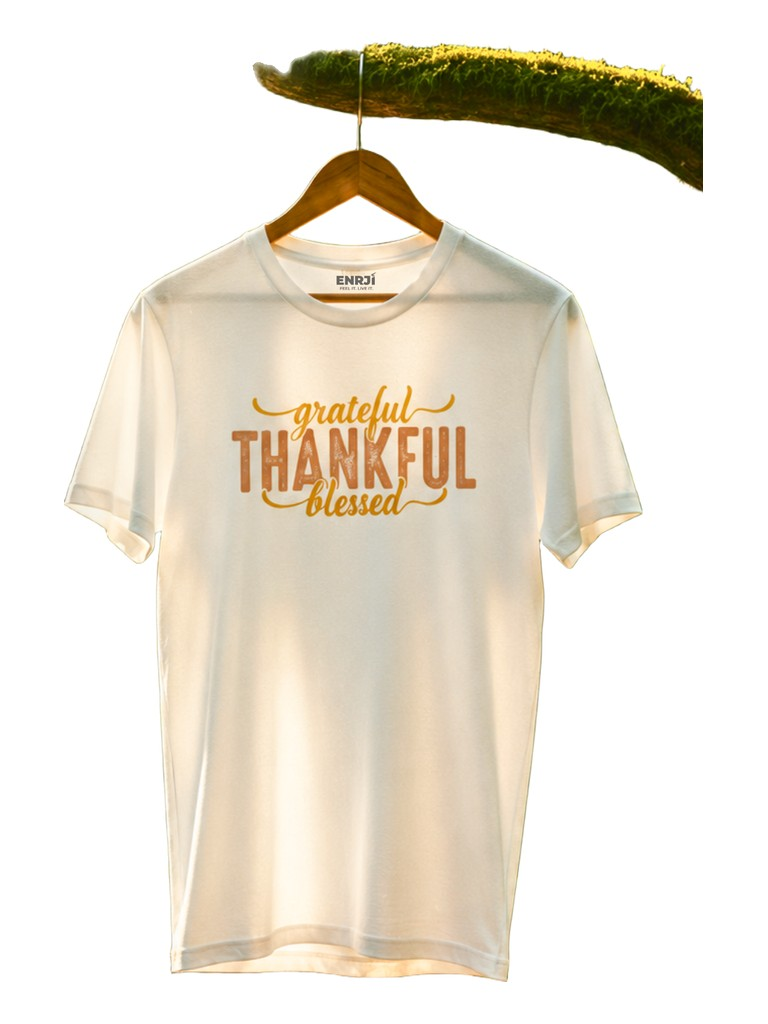
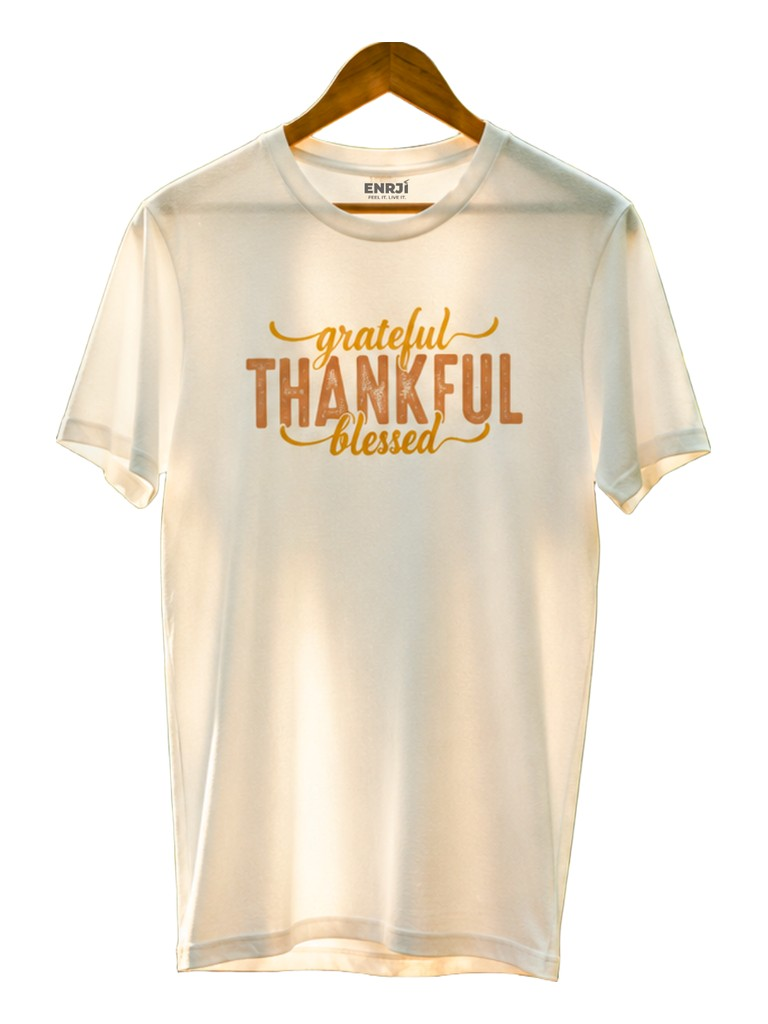
Faster pages on phones, Shop always one tap away, consistent product photos
Speed (measured on an emulated phone over slow 4G):
- Fonts are self-hosted with next/font instead of a render-blocking Google
  stylesheet; canvas text loads the heavy face before drawing with it.
- Home hero loads only its first pair of photos with the page; phones skip the
  hidden second frame. Home first paint 10.1s -> 1.4s, main image 16.5s -> 3.8s.
- Shop/collection grids render on the server with default filters, so the page
  no longer jumps when the browser applies URL filters (layout shift 0.39 -> 0).
- Lookbook serves smaller photos to phones.

Shop first:
- Shop is the one menu item that always stands out; the home hero leads with
  "Shop the collection"; Lookbook photos say "Shop" on phones.
- On phones the filters are one sideways-scrolling row instead of three rows
  pinned over the products.

Consistent photos:
- Product cards lead with the garment on its hanger, cut out on ivory, with the
  worn photo on hover (35 of 45 products).
- garment-cutouts.py removes the card's text panel, rebuilds the sleeve it hid
  by mirroring, trims branches above the hanger, and skips cards where the panel
  hides the print. Believe and Surrender keep their model photo on cards (a
  feather prop on the cuffs can't be removed cleanly).

Claude-Session: https://claude.ai/code/session_01Nt7si3X4rhPgPMTskvbx8t

Changed region(s): [[0.0625, 0.0312, 0.9375, 0.9688], [0.625, 0.6875, 0.6562, 0.75], [0.25, 0.5312, 0.2812, 0.5938]]

diff --git a/app/globals.css b/app/globals.css
@@ -21,9 +21,9 @@
   --ok: #3d7547;
   --radius: 2px;
   --radius-sm: 2px;
-  --font-display: 'Cormorant Garamond', 'Cormorant', Georgia, serif;
-  --font-body: 'Jost', system-ui, -apple-system, 'Segoe UI', sans-serif;
-  --font-serif: 'Cormorant Garamond', Georgia, serif;
+  --font-display: var(--f-display), 'Cormorant Garamond', Georgia, serif;
+  --font-body: var(--f-body), 'Jost', system-ui, -apple-system, 'Segoe UI', sans-serif;
+  --font-serif: var(--f-display), 'Cormorant Garamond', Georgia, serif;
   --ease: cubic-bezier(0.2, 0.7, 0.1, 1);
   --hop: cubic-bezier(0.87, 0, 0.13, 1);
   --gutter: clamp(18px, 4vw, 64px);
@@ -119,6 +119,10 @@ button { font: inherit; color: inherit; letter-spacing: inherit; }
 .nav a { position: relative; white-space: nowrap; font-size: 11px; font-weight: 500; letter-spacing: .2em; text-transform: uppercase; color: var(--text); padding: 6px 0; }
 .nav a::after { content: ''; position: absolute; left: 0; right: 0; bottom: 0; height: 1px; background: currentColor; transform: scaleX(0); transform-origin: right; transition: transform .45s var(--ease); }
 .nav a:hover::after, .nav a[aria-current='page']::after { transform: scaleX(1); transform-origin: left; }
+/* Shop is the one link that should always stand out. */
+.nav a.nav-primary { font-weight: 600; }
+.nav a.nav-primary::after { transform: scaleX(1); background: var(--gold); height: 2px; }
+.mobile-menu a.nav-primary { font-weight: 600; }
 .header-actions { justify-self: end; display: flex; gap: 28px; align-items: center; }
 .icon-btn { position: relative; width: 40px; height: 40px; display: grid; place-items: center; background: none; border: 0; cursor: pointer; border-radius: 50%; transition: background .2s; }
 .icon-btn:hover { background: var(--line); }
@@ -176,6 +180,9 @@ button { font: inherit; color: inherit; letter-spacing: inherit; }
 .card-media { position: relative; aspect-ratio: 3 / 4; overflow: hidden; background: var(--surface); }
 .card-media img { position: absolute; inset: 0; width: 100%; height: 100%; object-fit: cover; transition: transform 1.1s var(--ease), opacity .6s var(--ease); }
 .card-media img.alt { opacity: 0; }
+/* Garment cut-outs sit on white; multiply melts the white into the card's ivory. */
+.card-media.flat { background: #efe8dc; }
+.card-media img.flat { object-fit: contain; padding: 7% 6% 5%; mix-blend-mode: multiply; }
 .card:hover .card-media img { transform: scale(1.035); }
 .card:hover .card-media img.alt { opacity: 1; }
 .card-flags { position: absolute; top: 12px; left: 12px; display: flex; gap: 6px; z-index: 1; flex-wrap: wrap; }
@@ -240,6 +247,12 @@ button { font: inherit; color: inherit; letter-spacing: inherit; }
 /* ---------- shop ---------- */
 .page-head { padding: clamp(48px, 8vw, 110px) 0 clamp(24px, 4vw, 48px); }
 .filters { display: flex; gap: 8px; flex-wrap: wrap; align-items: center; margin-bottom: 32px; position: sticky; top: 72px; z-index: 5; padding: 12px 0; background: linear-gradient(var(--bg) 70%, transparent); }
+/* Phones: one row that scrolls sideways, so the pinned bar never covers the products. */
+@media (max-width: 760px) {
+  .filters { flex-wrap: nowrap; overflow-x: auto; scrollbar-width: none; top: 64px; margin: 0 calc(-1 * var(--gutter)) 20px; padding: 10px var(--gutter); background: var(--bg); }
+  .filters::-webkit-scrollbar { display: none; }
+  .filters > * { flex: none; }
+}
 .pill { height: 38px; padding: 0 18px; border-radius: 0; border: 1px solid var(--line-2); background: transparent; cursor: pointer; font-size: 11px; font-weight: 500; letter-spacing: .16em; text-transform: uppercase; color: var(--muted); transition: all .25s; }
 .pill:hover { color: var(--text); border-color: var(--text); }
 .pill[aria-pressed='true'] { background: var(--ink); color: var(--on-ink); border-color: var(--ink); }
@@ -498,6 +511,9 @@ input[type='checkbox'] { accent-color: var(--gold); }
 .ehero-links { margin-top: 26px; display: flex; gap: 40px; justify-content: center; pointer-events: auto; }
 .ehero-links a { font-size: 11px; letter-spacing: .28em; text-transform: uppercase; padding-bottom: 6px; border-bottom: 1px solid rgba(251, 248, 242, .6); transition: border-color .3s; }
 .ehero-links a:hover { border-color: #fbf8f2; }
+.ehero-links a.ehero-shop { padding: 12px 22px; border: 1px solid #fbf8f2; background: #fbf8f2; color: var(--ink); }
+.ehero-links a.ehero-shop:hover { background: transparent; color: #fbf8f2; }
+.ehero-links { align-items: center; flex-wrap: wrap; row-gap: 14px; }
 .ehero-nav { position: absolute; z-index: 3; right: var(--gutter); bottom: 26px; display: flex; align-items: center; gap: 14px; font-size: 11px; letter-spacing: .2em; }
 .ehero-nav span { display: inline-flex; align-items: center; gap: 10px; }
 .ehero-nav i { width: 36px; height: 1px; background: rgba(251, 248, 242, .6); }
@@ -584,6 +600,9 @@ input[type='checkbox'] { accent-color: var(--gold); }
 .studio-slide img { width: 100%; height: 100%; object-fit: cover; object-position: 50% 20%; pointer-events: none; }
 .studio-slide-name { position: absolute; left: 0; right: 0; bottom: -28px; text-align: center; font-size: 10px; letter-spacing: .24em; text-transform: uppercase; color: var(--muted); opacity: 0; transition: opacity .4s; }
 .studio-slide:hover .studio-slide-name { opacity: 1; }
+.studio-slide-name b { font-weight: 500; color: var(--gold); }
+/* No hover on phones: always show what each photo is and that it can be bought. */
+@media (hover: none) { .studio-slide-name { opacity: 1; } }
 @media (max-width: 660px) {
   .studio-sidebar { padding: .5em 1.5em; }
   .studio-slide { width: 240px; height: 310px; }

diff --git a/components/VirtualStore.tsx b/components/VirtualStore.tsx
@@ -7,6 +7,7 @@ import { useCart } from './cart';
 import { cdn, inr, titleCase } from '@/lib/format';
 import { Price } from './Price';
 import { createPortrait, loadPortrait, type PortraitMesh } from '@/lib/depthPortrait';
+import { heavyFamily, loadHeavyFont } from '@/lib/garment';
 
 export interface StoreProduct {
   handle: string;
@@ -137,10 +138,14 @@ export default function VirtualStore({ products }: { products: StoreProduct[] })
       scene.add(ring);
     }
 
-    // Brand wall.
-    const sign = new THREE.Mesh(track(new THREE.PlaneGeometry(9, 2.25)), track(new THREE.MeshBasicMaterial({ map: track(textTexture('ENRJI', { w: 1024, h: 256, font: '800 190px Unbounded, Arial Black, sans-serif', color: '#f2d38c', glow: GOLD })), transparent: true, toneMapped: false })));
-    sign.position.set(0, 6.75, -ROOM + 0.05);
-    scene.add(sign);
+    // Brand wall (drawn once the heavy face has arrived).
+    const heavyReady = loadHeavyFont();
+    heavyReady.then(() => {
+      if (disposed) return;
+      const sign = new THREE.Mesh(track(new THREE.PlaneGeometry(9, 2.25)), track(new THREE.MeshBasicMaterial({ map: track(textTexture('ENRJI', { w: 1024, h: 256, font: `800 190px ${heavyFamily()}, Arial Black, sans-serif`, color: '#f2d38c', glow: GOLD })), transparent: true, toneMapped: false })));
+      sign.position.set(0, 6.75, -ROOM + 0.05);
+      scene.add(sign);
+    });
     const tag = new THREE.Mesh(track(new THREE.PlaneGeometry(9, 0.6)), track(new THREE.MeshBasicMaterial({ map: track(textTexture('FEEL IT · LIVE IT', { w: 1024, h: 72, font: '600 44px Inter, sans-serif', color: '#a29b90' })), transparent: true, toneMapped: false })));
     tag.position.set(0, 5.45, -ROOM + 0.05);
     scene.add(tag);
@@ -174,6 +179,7 @@ export default function VirtualStore({ products }: { products: StoreProduct[] })
     const places = slots(wall.length);
 
     const build = Promise.all(wall.slice(0, places.length).map(async (p, i) => {
+      await heavyReady;
       const s = places[i];
       const g = new THREE.Group();
       g.position.set(s.x, 0, s.z);
@@ -205,7 +211,7 @@ export default function VirtualStore({ products }: { products: StoreProduct[] })
       poster.userData = { p, edgeMat };
       g.add(poster);
       pickables.push(poster);
-      const label = new THREE.Mesh(labelGeo, track(new THREE.MeshBasicMaterial({ map: track(textTexture(`${titleCase(p.baseName).toUpperCase()}  ·  ${inr(p.price)}`, { w: 1024, h: 200, font: '700 64px Unbounded, Arial Black, sans-serif', color: '#f4efe6' })), transparent: true, toneMapped: false })));
+      const label = new THREE.Mesh(labelGeo, track(new THREE.MeshBasicMaterial({ map: track(textTexture(`${titleCase(p.baseName).toUpperCase()}  ·  ${inr(p.price)}`, { w: 1024, h: 200, font: `700 64px ${heavyFamily()}, Arial Black, sans-serif`, color: '#f4efe6' })), transparent: true, toneMapped: false })));
       label.position.set(0, 0.62, 0.06);
       g.add(label);
       const spot = new THREE.Mesh(track(new THREE.CircleGeometry(1.2, 48)), track(new THREE.MeshBasicMaterial({ color: GOLD, transparent: true, opacity: 0.08, toneMapped: false })));

diff --git a/components/EditorialHero.tsx b/components/EditorialHero.tsx
@@ -15,9 +15,19 @@ const HOLD = 6500;
 export function EditorialHero({ pairs, title, sub }: { pairs: [HeroFrame, HeroFrame][]; title: string; sub: string }) {
   const [i, setI] = useState(0);
   const [prev, setPrev] = useState<number | null>(null);
+  // Only the first pair loads with the page; the rest follow once it has finished loading.
+  const [rest, setRest] = useState(false);
+  useEffect(() => {
+    const go = () => setTimeout(() => setRest(true), 800);
+    if (document.readyState === 'complete') { const t = go(); return () => clearTimeout(t); }
+    let t: ReturnType<typeof setTimeout>;
+    const on = () => { t = go(); };
+    window.addEventListener('load', on, { once: true });
+    return () => { window.removeEventListener('load', on); clearTimeout(t); };
+  }, []);
 
   useEffect(() => {
-    if (pairs.length < 2 || window.matchMedia('(prefers-reduced-motion: reduce)').matches) return;
+    if (!rest || pairs.length < 2 || window.matchMedia('(prefers-reduced-motion: reduce)').matches) return;
     const t = setTimeout(() => go((i + 1) % pairs.length), HOLD);
     return () => clearTimeout(t);
   });
@@ -36,8 +46,8 @@ export function EditorialHero({ pairs, title, sub }: { pairs: [HeroFrame, HeroFr
             onAnimationEnd={() => { if (n === i) setPrev(null); }}>
             {pair.map((f, k) => (
               <Link key={k} href={f.href} className="ehero-frame" tabIndex={n === i ? 0 : -1}>
-                <img src={cdn(f.src, 1200)} srcSet={srcSet(f.src, [600, 900, 1200, 1600])} sizes="(max-width: 760px) 100vw, 50vw" alt={f.alt}
-                  loading="eager" fetchPriority={n === 0 ? 'high' : 'low'} />
+                {(n === 0 || rest) && <img src={cdn(f.src, 1200)} srcSet={srcSet(f.src, [600, 900, 1200, 1600])} sizes="(max-width: 760px) 100vw, 50vw" alt={f.alt}
+                  loading={k === 0 ? 'eager' : 'lazy'} fetchPriority={n === 0 && k === 0 ? 'high' : 'low'} />}
                 <span className="ehero-cap">{f.caption}</span>
               </Link>
             ))}
@@ -48,9 +58,9 @@ export function EditorialHero({ pairs, title, sub }: { pairs: [HeroFrame, HeroFr
         <p className="ehero-sub">{sub}</p>
         <h1 className="ehero-title">{title}</h1>
         <div className="ehero-links">
+          <Link href="/shop" className="ehero-shop">Shop the collection</Link>
           <Link href="/collections/sweatshirts">Sweatshirts</Link>
           <Link href="/collections/tees">Tees</Link>
-          <Link href="/lookbook">Lookbook</Link>
         </div>
       </div>
       {pairs.length > 1 && (

diff --git a/components/ProductCard.tsx b/components/ProductCard.tsx
@@ -2,18 +2,27 @@ import Link from 'next/link';
 import type { Product } from '@/lib/catalogue';
 import { cdn, srcSet, titleCase } from '@/lib/format';
 import { Price } from './Price';
+import flats from '@/data/garment-photos.json';
+
+const FLAT = flats as Record<string, { color: string; card?: boolean }>;
+/** Our own files, resized by Next's image optimiser. */
+const local = (src: string, w: number) => `/_next/image?url=${encodeURIComponent(src)}&w=${w}&q=75`;
 
 export function ProductCard({ p, priority = false, sizes = '(max-width: 760px) 50vw, (max-width: 1100px) 33vw, 25vw' }: { p: Product; priority?: boolean; sizes?: string }) {
-  const [a, b] = p.images;
+  // Every card leads with the same kind of shot: the garment on its hanger, cut out on the page's ivory
+  // (public/garments, made by scripts/garment-cutouts.py). The worn photo shows on hover.
+  const flat = FLAT[p.handle] && FLAT[p.handle].card !== false ? `/garments/${p.handle}.jpg` : null;
+  const [a, b] = flat ? [null, p.images[0]] : p.images;
   const lowStock = p.available && p.availableCount <= 2;
   return (
     <Link href={`/products/${p.handle}`} className={`card${p.available ? '' : ' soldout'}`}>
-      <div className="card-media">
+      <div className={`card-media${flat ? ' flat' : ''}`}>
         <div className="card-flags">
           {p.limited && <span className="chip chip-gold">Limited edition</span>}
           {!p.available && <span className="chip chip-out">Sold out</span>}
           {lowStock && <span className="chip">Few sizes left</span>}
         </div>
+        {flat && <img className="flat" src={local(flat, 640)} srcSet={[384, 640, 828].map((w) => `${local(flat, w)} ${w}w`).join(', ')} sizes={sizes} alt={titleCase(p.title)} loading={priority ? 'eager' : 'lazy'} fetchPriority={priority ? 'high' : undefined} />}
         {a && <img src={cdn(a.src, 720)} srcSet={srcSet(a.src)} sizes={sizes} alt={titleCase(p.title)} loading={priority ? 'eager' : 'lazy'} fetchPriority={priority ? 'high' : undefined} />}
         {b && <img className="alt" src={cdn(b.src, 720)} srcSet={srcSet(b.src)} sizes={sizes} alt="" loading="lazy" />}
         {p.available && <span className="card-quick btn btn-light btn-sm btn-block">View & choose size</span>}

diff --git a/app/layout.tsx b/app/layout.tsx
@@ -6,6 +6,13 @@ import { Header } from '@/components/Header';
 import { Footer } from '@/components/Footer';
 import { SiteChrome } from '@/components/SiteChrome';
 import { SITE_URL, MULTIBUY, PROMISES } from '@/lib/config';
+import { Cormorant_Garamond, Jost, Unbounded } from 'next/font/google';
+
+// Self-hosted with the site (no render-blocking request to Google), swapped in when ready.
+const display = Cormorant_Garamond({ subsets: ['latin'], weight: ['400', '500', '600'], style: ['normal', 'italic'], variable: '--f-display', display: 'swap' });
+const body = Jost({ subsets: ['latin'], weight: ['300', '400', '500'], variable: '--f-body', display: 'swap' });
+// Only drawn onto canvases (3D store labels, garment renders), so it isn't preloaded.
+const heavy = Unbounded({ subsets: ['latin'], weight: ['800'], variable: '--f-heavy', display: 'swap', preload: false });
 
 export const metadata: Metadata = {
   metadataBase: new URL(SITE_URL),
@@ -29,13 +36,9 @@ const announcements = [
 
 export default function RootLayout({ children }: { children: React.ReactNode }) {
   return (
-    <html lang="en-IN">
+    <html lang="en-IN" className={`${display.variable} ${body.variable} ${heavy.variable}`}>
       <head>
-        <link rel="preconnect" href="https://fonts.googleapis.com" />
-        <link rel="preconnect" href="https://fonts.gstatic.com" crossOrigin="" />
         <link rel="preconnect" href="https://cdn.shopify.com" crossOrigin="" />
-        {/* eslint-disable-next-line @next/next/no-page-custom-font */}
-        <link rel="stylesheet" href="https://fonts.googleapis.com/css2?family=Cormorant+Garamond:ital,wght@0,400;0,500;0,600;1,400;1,500&family=Jost:wght@300;400;500&family=Unbounded:wght@800&display=swap" />
       </head>
       <body>
         <CartProvider>

diff --git a/components/lookbook/Studio.tsx b/components/lookbook/Studio.tsx
@@ -3,7 +3,7 @@
 import Link from 'next/link';
 import { useEffect, useRef } from 'react';
 import gsap from 'gsap';
-import { cdn } from '@/lib/format';
+import { cdn, srcSet } from '@/lib/format';
 import { FlairButton } from './FlairButton';
 import { Cursor } from './Cursor';
 
@@ -97,7 +97,7 @@ export function Studio({ looks }: { looks: StudioLook[] }) {
             <span className="studio-logo-mark">ENRJI</span>
             <span className="studio-logo-sub">Feel it · Live it</span>
           </Link>
-          <FlairButton href="/shop">Explore Catalog <span aria-hidden>↑</span></FlairButton>
+          <FlairButton href="/shop">Shop the collection <span aria-hidden>↑</span></FlairButton>
           <FlairButton href="/lookbook/energies" flair="flair-gold">Four <em>Energies</em></FlairButton>
         </div>
       </div>
@@ -105,8 +105,8 @@ export function Studio({ looks }: { looks: StudioLook[] }) {
         {looks.map((l, i) => (
           <Link key={i} href={`/products/${l.handle}`} className="studio-slide" draggable={false} aria-label={l.name}
             onClick={(e) => { if (Math.abs(target.current - current.current) > 30) e.preventDefault(); }}>
-            <img src={cdn(l.src, 900)} alt={`${l.name}, worn`} draggable={false} loading={i < 8 ? 'eager' : 'lazy'} />
-            <span className="studio-slide-name">{l.name}</span>
+            <img src={cdn(l.src, 900)} srcSet={srcSet(l.src, [480, 720, 960, 1280])} sizes="(max-width: 760px) 220px, 612px" alt={`${l.name}, worn`} draggable={false} loading={i < 5 ? 'eager' : 'lazy'} />
+            <span className="studio-slide-name">{l.name} <b>· Shop</b></span>
           </Link>
         ))}
       </div>

diff --git a/components/Header.tsx b/components/Header.tsx
@@ -8,7 +8,7 @@ import { accountUrl } from '@/lib/config';
 
 const LEFT = [
   { href: '/', label: 'Home' },
-  { href: '/shop', label: 'Shop' },
+  { href: '/shop', label: 'Shop', primary: true },
   { href: '/collections/sweatshirts', label: 'Sweatshirts' },
   { href: '/collections/tees', label: 'Tees' },
   { href: '/lookbook', label: 'Lookbook' },
@@ -52,7 +52,7 @@ export function Header() {
               <svg viewBox="0 0 24 24"><path d="M4 9h16M4 15h16" /></svg>
             </button>
             <nav className="nav" aria-label="Shop">
-              {LEFT.map((n) => <Link key={n.href} href={n.href} aria-current={isCurrent(path, n.href) ? 'page' : undefined}>{n.label}</Link>)}
+              {LEFT.map((n) => <Link key={n.href} href={n.href} className={'primary' in n ? 'nav-primary' : undefined} aria-current={isCurrent(path, n.href) ? 'page' : undefined}>{n.label}</Link>)}
             </nav>
           </div>
           <Link href="/" className="wordmark" aria-label="ENRJI home">ENRJI</Link>
@@ -78,7 +78,7 @@ export function Header() {
           <button className="icon-btn" onClick={() => setMenu(false)} aria-label="Close menu"><svg viewBox="0 0 24 24"><path d="M6 6l12 12M18 6L6 18" /></svg></button>
         </div>
         <nav aria-label="Mobile">
-          {NAV.map((n) => <Link key={n.href} href={n.href}>{n.label}</Link>)}
+          {NAV.map((n) => <Link key={n.href} href={n.href} className={'primary' in n ? 'nav-primary' : undefined}>{n.label}</Link>)}
           <a href={accountUrl}>Account</a>
         </nav>
       </div>

diff --git a/components/ShopGrid.tsx b/components/ShopGrid.tsx
@@ -1,6 +1,6 @@
 'use client';
 
-import { useMemo } from 'react';
+import { Suspense, useMemo } from 'react';
 import { usePathname, useRouter, useSearchParams } from 'next/navigation';
 import type { Product, Pillar } from '@/lib/catalogue';
 import { ProductCard } from './ProductCard';
@@ -9,8 +9,22 @@ export interface ShopItem { p: Product; pillar: Pillar | null }
 
 const PILLAR_LABELS: Record<Pillar, string> = { mental: 'Mental', emotional: 'Emotional', physical: 'Physical', spiritual: 'Spiritual' };
 
-export function ShopGrid({ items, fixedKind }: { items: ShopItem[]; fixedKind?: 'tee' | 'sweatshirt' }) {
-  const params = useSearchParams();
+type GridProps = { items: ShopItem[]; fixedKind?: 'tee' | 'sweatshirt' };
+const NO_FILTERS = new URLSearchParams();
+
+/**
+ * Filters live in the URL, which is only known in the browser. The server renders the full grid with no
+ * filters (so the page arrives complete and nothing jumps), then the browser applies any from the URL.
+ */
+export function ShopGrid(props: GridProps) {
+  return <Suspense fallback={<Grid {...props} params={NO_FILTERS} />}><LiveGrid {...props} /></Suspense>;
+}
+
+function LiveGrid(props: GridProps) {
+  return <Grid {...props} params={useSearchParams()} />;
+}
+
+function Grid({ items, fixedKind, params }: GridProps & { params: URLSearchParams | ReturnType<typeof useSearchParams> }) {
   const router = useRouter();
   const path = usePathname();
   const kind = fixedKind ?? (params.get('kind') as 'tee' | 'sweatshirt' | null);

diff --git a/lib/garment.ts b/lib/garment.ts
@@ -57,6 +57,17 @@ export interface DrawOptions {
 }
 
 /** Render the garment at `scale` × (400×440) px, transparent background. */
+/** The heavy display face. next/font self-hosts it under a generated name, published as --f-heavy. */
+export function heavyFamily() {
+  if (typeof document === 'undefined') return 'Unbounded';
+  return getComputedStyle(document.documentElement).getPropertyValue('--f-heavy').trim() || 'Unbounded';
+}
+
+/** Canvas text doesn't trigger font downloads, so fetch the heavy face before drawing with it. */
+export async function loadHeavyFont() {
+  try { await document.fonts.load(`800 64px ${heavyFamily()}`); } catch { /* fall back to Arial Black */ }
+}
+
 export function drawGarment(spec: GarmentSpec, opts: DrawOptions = {}): HTMLCanvasElement {
   const { scale = 2.5, printOnly = false, noPrint = false, shading = true, bleed = false, bodyless = false } = opts;
   const c = document.createElement('canvas');
@@ -111,7 +122,7 @@ export function drawGarment(spec: GarmentSpec, opts: DrawOptions = {}): HTMLCanv
     g.drawImage(a, PRINT_BOX.cx - w / 2, PRINT_BOX.cy - h / 2, w, h);
   } else {
     const lines = wrap(spec.slogan);
-    const font = (px: number) => `800 ${px}px Unbounded, "Arial Black", Impact, sans-serif`;
+    const font = (px: number) => `800 ${px}px ${heavyFamily()}, "Arial Black", Impact, sans-serif`;
     let size = 46;
     g.font = font(size);
     const widest = () => Math.max(...lines.map((l) => g.measureText(l).width));

diff --git a/components/TrialRoom.tsx b/components/TrialRoom.tsx
@@ -2,7 +2,7 @@
 
 import Link from 'next/link';
 import { useEffect, useRef, useState } from 'react';
-import { drawGarment, GARMENT_COLORS, type GarmentKind } from '@/lib/garment';
+import { drawGarment, loadHeavyFont, GARMENT_COLORS, type GarmentKind } from '@/lib/garment';
 import { aiTryOn, type TryOnStatus } from '@/lib/hfTryon';
 import { buildMask, padTo34, preloadMaskModels, type TryOnMask } from '@/lib/tryonMask';
 import { overlayPrint } from '@/lib/printOverlay';
@@ -52,6 +52,7 @@ async function garmentImage(p: TryProduct, color: string | null, hex: string): P
     const r = await fetch(p.garmentPhoto.src);
     if (r.ok) return r.blob();
   }
+  await loadHeavyFont();
   await document.fonts?.ready;
   let art: HTMLImageElement | null = null;
   const src = (color && p.artwork[color]) || p.artwork['*'];

diff --git a/app/collections/[handle]/page.tsx b/app/collections/[handle]/page.tsx
@@ -1,6 +1,5 @@
 import type { Metadata } from 'next';
 import { notFound } from 'next/navigation';
-import { Suspense } from 'react';
 import { getProducts, pillarOf, type Product } from '@/lib/catalogue';
 import { ShopGrid } from '@/components/ShopGrid';
 
@@ -32,9 +31,7 @@ export default async function Collection({ params }: { params: Promise<{ handle:
         <h1 className="display h1" style={{ marginTop: 14 }}>{c.title}</h1>
         <p className="lead" style={{ marginTop: 18 }}>{c.lead}</p>
       </header>
-      <Suspense>
-        <ShopGrid items={products.map((p) => ({ p, pillar: pillarOf(p) }))} fixedKind={c.kind} />
-      </Suspense>
+      <ShopGrid items={products.map((p) => ({ p, pillar: pillarOf(p) }))} fixedKind={c.kind} />
     </div>
   );
 }

diff --git a/components/Garment360.tsx b/components/Garment360.tsx
@@ -3,7 +3,7 @@
 import { useEffect, useRef, useState } from 'react';
 import * as THREE from 'three';
 import { OrbitControls } from 'three/examples/jsm/controls/OrbitControls.js';
-import { drawGarment, type GarmentKind } from '@/lib/garment';
+import { drawGarment, loadHeavyFont, type GarmentKind } from '@/lib/garment';
 import { buildGarment3D, disposeObject } from '@/lib/garment3d';
 
 export interface Garment360Props {
@@ -121,6 +121,7 @@ export default function Garment360({ kind, color, ink, slogan, artwork, classNam
     (async () => {
       const s = sceneRef.current;
       if (!s) return;
+      await loadHeavyFont();
       await document.fonts?.ready;
       let art: HTMLImageElement | null = null;
       if (artwork) {
